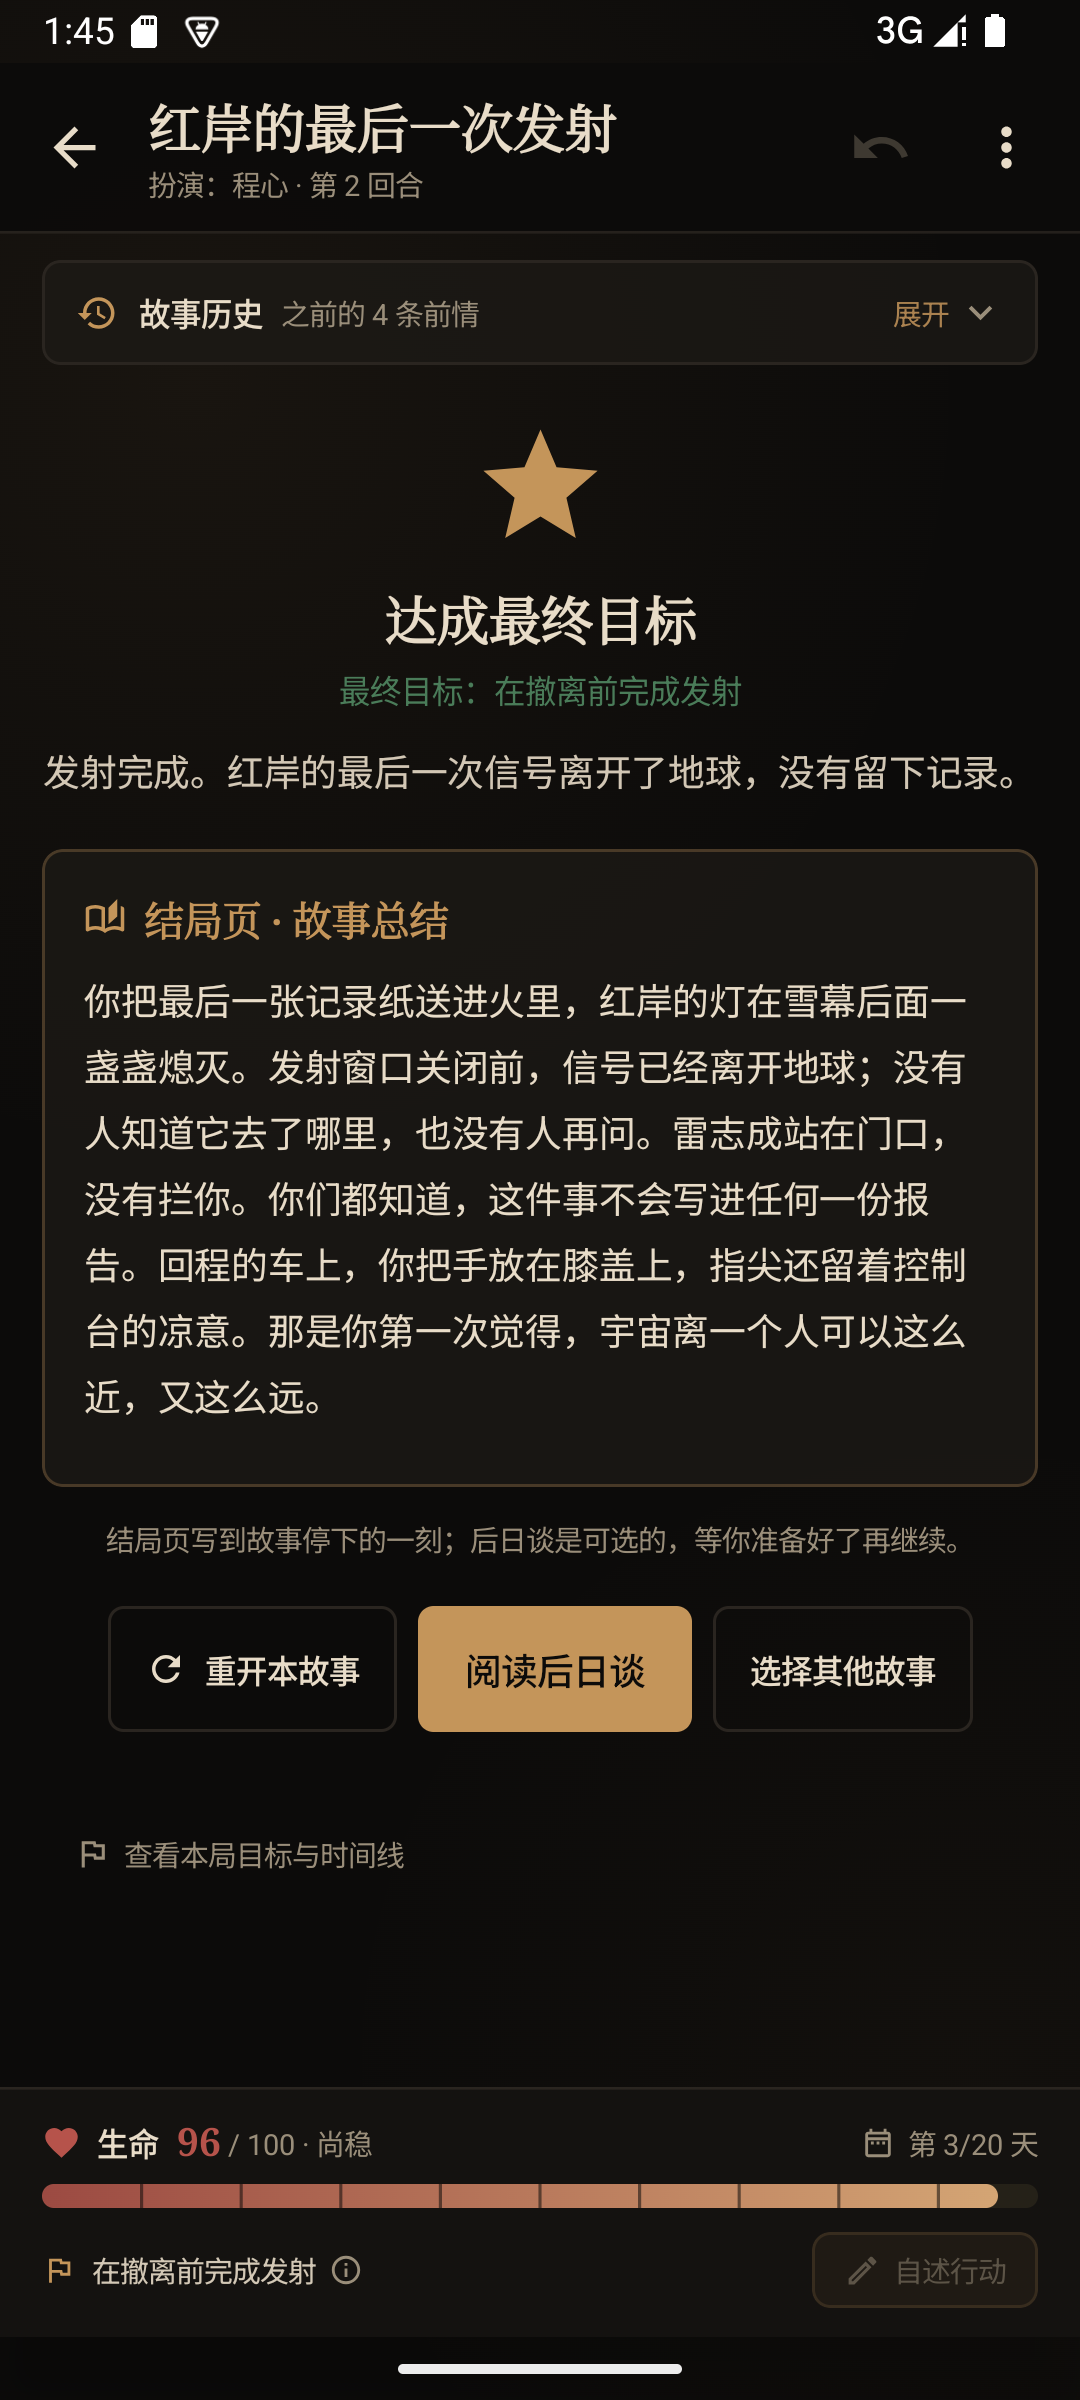
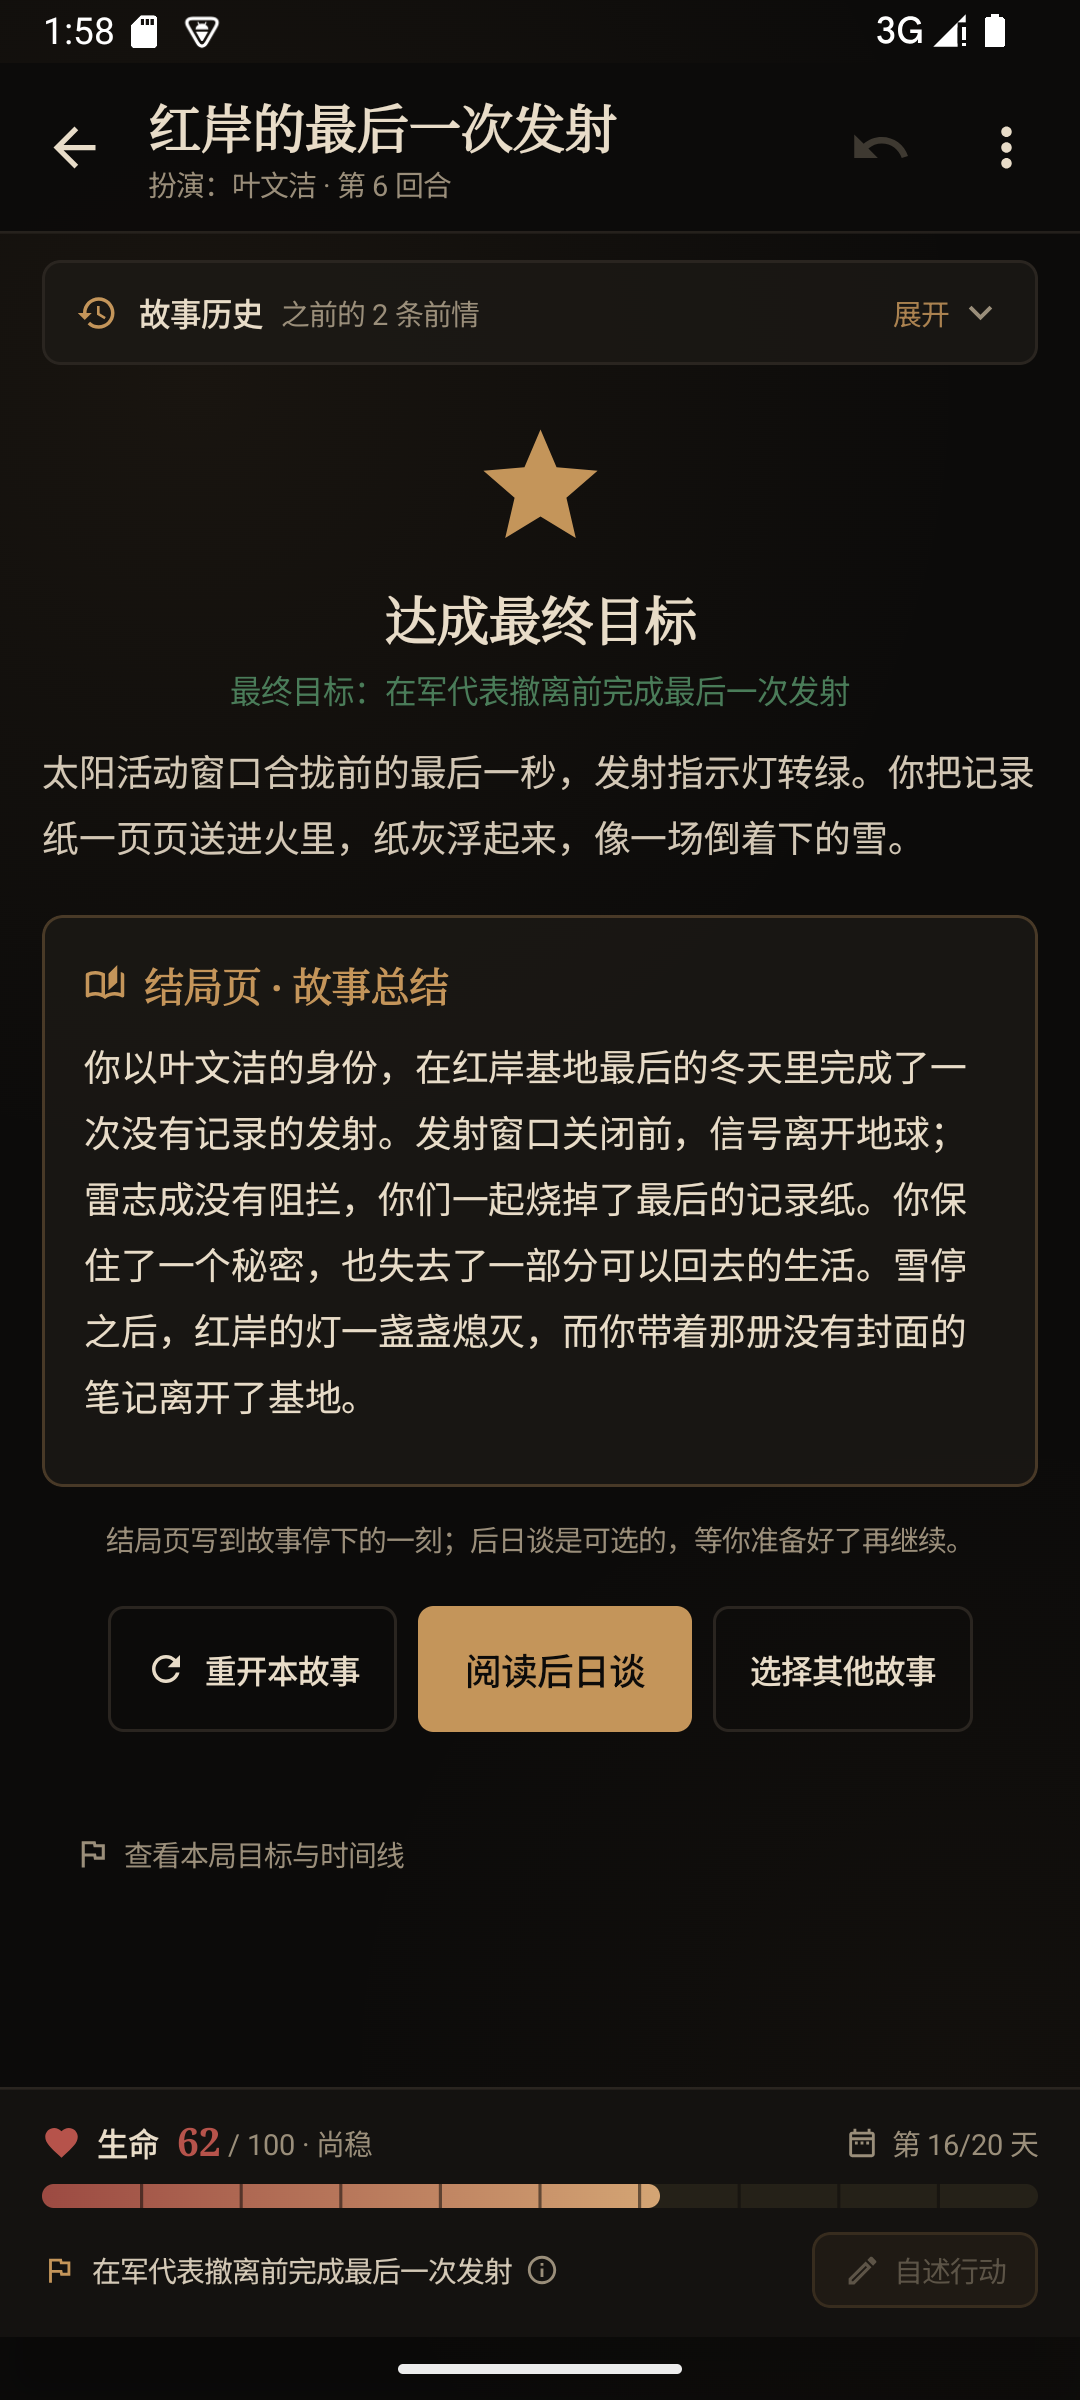
docs: 重拍 1.2.1 界面截图

diff --git a/README.md b/README.md
@@ -18,7 +18,7 @@
 
 ## 界面
 
-截图来自 Android 15（API 35）模拟器。1.2.1 更新了故事栏、结局页与独立后日谈截图。
+截图来自 Android 15（API 35）模拟器，已按 1.2.1 全部重拍。
 
 | 书架 / 首页 | AI 设置 |
 |---|---|
@@ -42,7 +42,7 @@
 
 | 后日谈 · 独立后话 | 故事栏 · 已完结故事 |
 |---|---|
-| ![后日谈](docs/screenshots/14-epilogue.png) | ![已完结故事](docs/screenshots/10-stories.png) |
+| ![后日谈](docs/screenshots/14-epilogue.png) | ![已完结故事](docs/screenshots/15-stories-completed.png) |
 
 漏洞体检与自动修补已移除：设定圣经完成后，先选择角色，再从故事栏里挑一条命运进入故事。结局与后日谈分开：结局页自动总结，后日谈由玩家从结局页或已完结故事卡按需打开。
 
